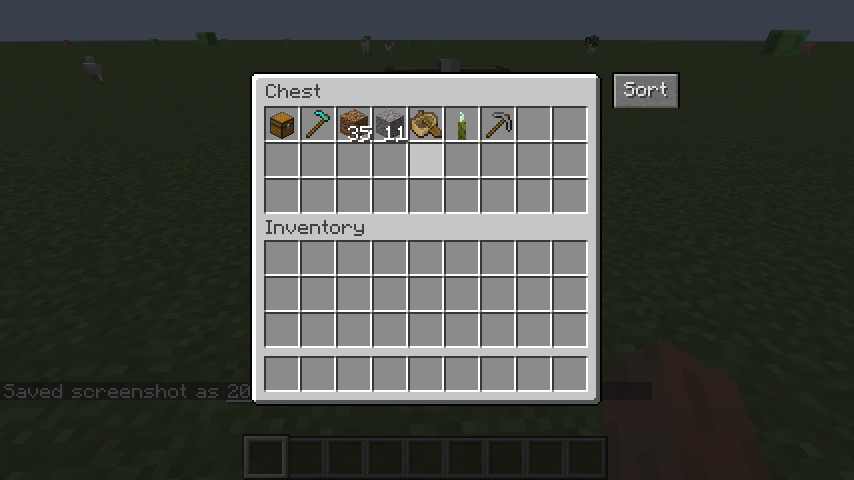
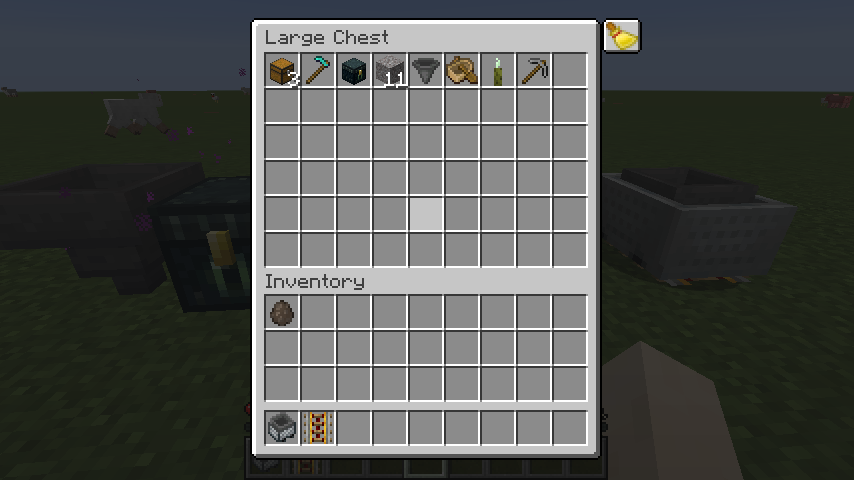
Cleaned up placemnt of sort button Added option to always display a player inventory sort button Updated Screenshots

diff --git a/src/main/java/net/kyrptonaught/inventorysorter/config/ConfigHelper.java b/src/main/java/net/kyrptonaught/inventorysorter/config/ConfigHelper.java
@@ -9,23 +9,25 @@ import java.io.FileWriter;
 import java.io.IOException;
 import java.nio.file.Files;
 import java.util.List;
+
 public class ConfigHelper {
     public enum Option {
-        display_sort, middle_click, left_display, sort_player
+        display_sort, middle_click, left_display, two_btns, sort_player
     }
 
-    public ConfigOption[] configOptions;
+    ConfigOption[] configOptions;
 
-    private ConfigHelper(boolean displayButton, boolean middleClick, boolean left, boolean playerSort) {
-        ConfigOption displaySortButton = new ConfigOption("display_Sort", displayButton, "Should the Sort button be displayed in inventorys");
-        ConfigOption enableMiddleClick = new ConfigOption("enable_Middle_Click", middleClick, "Allows clicking the middle mouse button to sort inventorys");
-        ConfigOption leftDisplay = new ConfigOption("display_left_side", left, "Should the Sort button be displayed on the left instead");
-        ConfigOption sortPlayerInventory = new ConfigOption("always_sort_player_inventory", playerSort, "Should sorting another inventory also sort the players");
-        configOptions = new ConfigOption[]{displaySortButton, enableMiddleClick, leftDisplay, sortPlayerInventory};
+    private ConfigHelper(boolean displayButton, boolean middleClick, boolean left, boolean separate, boolean playerSort) {
+        ConfigOption displaySortButton = new ConfigOption("display_Sort_btn", displayButton, "Should the Sort button be displayed in inventorys");
+        ConfigOption enableMiddleClick = new ConfigOption("enable_MiddleClick_sort", middleClick, "Allows clicking the middle mouse button to sort inventorys");
+        ConfigOption leftDisplay = new ConfigOption("display_sort_on_left", left, "Should the Sort button be displayed on the left instead");
+        ConfigOption separatePlayerInvSortBtn = new ConfigOption("separate_playerInv_sort_btn", separate, "Should a second btn be displayed to sort player inventory");
+        ConfigOption sortPlayerInventory = new ConfigOption("also_sort_player_inventory", playerSort, "Should sorting another inventory also sort the players");
+        configOptions = new ConfigOption[]{displaySortButton, enableMiddleClick, leftDisplay, separatePlayerInvSortBtn, sortPlayerInventory};
     }
 
     public static ConfigHelper loadConfig() {
-        ConfigHelper config = new ConfigHelper(true, true, false, false);
+        ConfigHelper config = new ConfigHelper(true, true, false, false, false);
         File configFile = new File(FabricLoader.getInstance().getConfigDirectory(), InventorySorterMod.MOD_ID + ".json");
         if (!configFile.exists()) {
             try (BufferedWriter writer = new BufferedWriter(new FileWriter(configFile))) {

diff --git a/src/main/java/net/kyrptonaught/inventorysorter/mixin/MixinAbstractContainerScreen.java b/src/main/java/net/kyrptonaught/inventorysorter/mixin/MixinAbstractContainerScreen.java
@@ -26,19 +26,26 @@ public abstract class MixinAbstractContainerScreen extends Screen {
     @Shadow
     private int containerWidth;
     @Shadow
+    private int containerHeight;
+    @Shadow
     private int top;
-    int calcOffset;
-    TexturedButtonWidget btn;
+    @Shadow
+    private int left;
+
     private Identifier BUTTON_TEX = new Identifier(InventorySorterMod.MOD_ID, "textures/gui/button.png");
+    private TexturedButtonWidget btn;
+
     @Inject(method = "init", at = @At("TAIL"), cancellable = true)
     protected void init(CallbackInfo callbackinfo) {
         if (InventorySorterMod.config.getConfigOption(ConfigHelper.Option.display_sort).value) {
             Screen currentScreen = MinecraftClient.getInstance().currentScreen;
             if (!shouldInject(currentScreen)) return;
-            calcOffset = (this.width / 2) + (this.containerWidth / 2);
+            int calcOffset = this.left + this.containerWidth;
             if (InventorySorterMod.config.getConfigOption(ConfigHelper.Option.left_display).value)
-                calcOffset = (this.width / 2) - (this.containerWidth / 2 + 35);
+                calcOffset = this.left - 20;
             this.addButton(btn = new TexturedButtonWidget(calcOffset, top, 20, 18, 0, 0, 19, BUTTON_TEX, var1 -> sendPacketToClient(currentScreen)));
+            if (InventorySorterMod.config.getConfigOption(ConfigHelper.Option.two_btns).value && !(currentScreen instanceof InventoryScreen))
+                this.addButton(new TexturedButtonWidget(calcOffset, containerHeight - 85, 20, 18, 0, 0, 19, BUTTON_TEX, var1 -> InventorySorter.sendPacket(true)));
         }
     }
 
@@ -65,12 +72,10 @@ public abstract class MixinAbstractContainerScreen extends Screen {
     public void render(int int_1, int int_2, float float_1, CallbackInfo callbackinfo) {
         Screen currentScreen = MinecraftClient.getInstance().currentScreen;
         if (currentScreen instanceof InventoryScreen) {
-            InventoryScreen invScreen = (InventoryScreen) currentScreen;
-            if (invScreen.getRecipeBookGui().isOpen())
-                btn.setPos((this.width / 2) + (this.containerWidth / 2) + 75, btn.y);
-            else btn.setPos(calcOffset, btn.y);
+            btn.setPos(this.left + 125, this.height / 2 - 22);
         }
     }
+
     private void sendPacketToClient(Screen currentScreen) {
         if (currentScreen instanceof InventoryScreen)
             InventorySorter.sendPacket(true);

diff --git a/src/main/java/net/kyrptonaught/inventorysorter/SortableStack.java b/src/main/java/net/kyrptonaught/inventorysorter/SortableStack.java
@@ -12,17 +12,19 @@ public class SortableStack implements Comparable {
     ItemStack getStack() {
         return sortStack;
     }
+
     private static String getCleanName(ItemStack stack) {
         return stack.getItem().getName().getText();
     }
 
     @Override
-    public String toString(){
-        return getCleanName(sortStack) + " x"+sortStack.getCount();
+    public String toString() {
+        return getCleanName(sortStack) + " x" + sortStack.getCount();
     }
+
     @Override
     public int compareTo(Object o) {
-        ItemStack otherStack = ((SortableStack)o).getStack();
+        ItemStack otherStack = ((SortableStack) o).getStack();
         int compared = getCleanName(sortStack).compareTo(getCleanName(otherStack));
         if (compared == 0)
             compared = sortStack.getCount() >= otherStack.getCount() ? 1 : -1;

diff --git a/src/main/java/net/kyrptonaught/inventorysorter/InventorySorter.java b/src/main/java/net/kyrptonaught/inventorysorter/InventorySorter.java
@@ -48,6 +48,7 @@ public class InventorySorter {
             inv.setInvStack(startSlot + i, stacks.get(i).getStack());
         inv.markDirty();
     }
+
     public static void sendPacket(Boolean isPlayer) {
         MinecraftClient.getInstance().getNetworkHandler().getClientConnection().send(createSortPacket(isPlayer));
     }

diff --git a/src/main/java/net/kyrptonaught/inventorysorter/config/ModOptionsGUI.java b/src/main/java/net/kyrptonaught/inventorysorter/config/ModOptionsGUI.java
@@ -49,6 +49,7 @@ public class ModOptionsGUI extends Screen implements Supplier<Screen> {
             drawString(font, config.configOptions[i].display, this.width / 2 - 200, starty + (i * 20), 0xffffff);
         }
     }
+
     @Override
     public Screen get() {
         return this;
